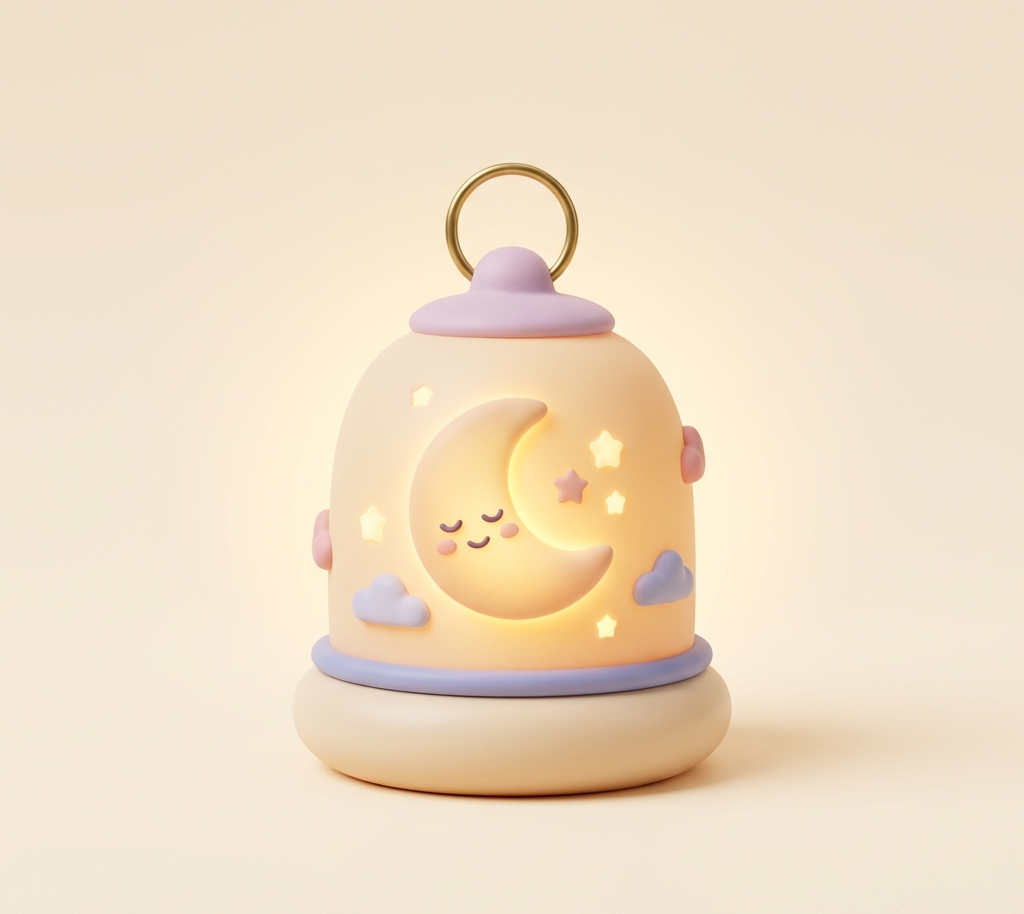
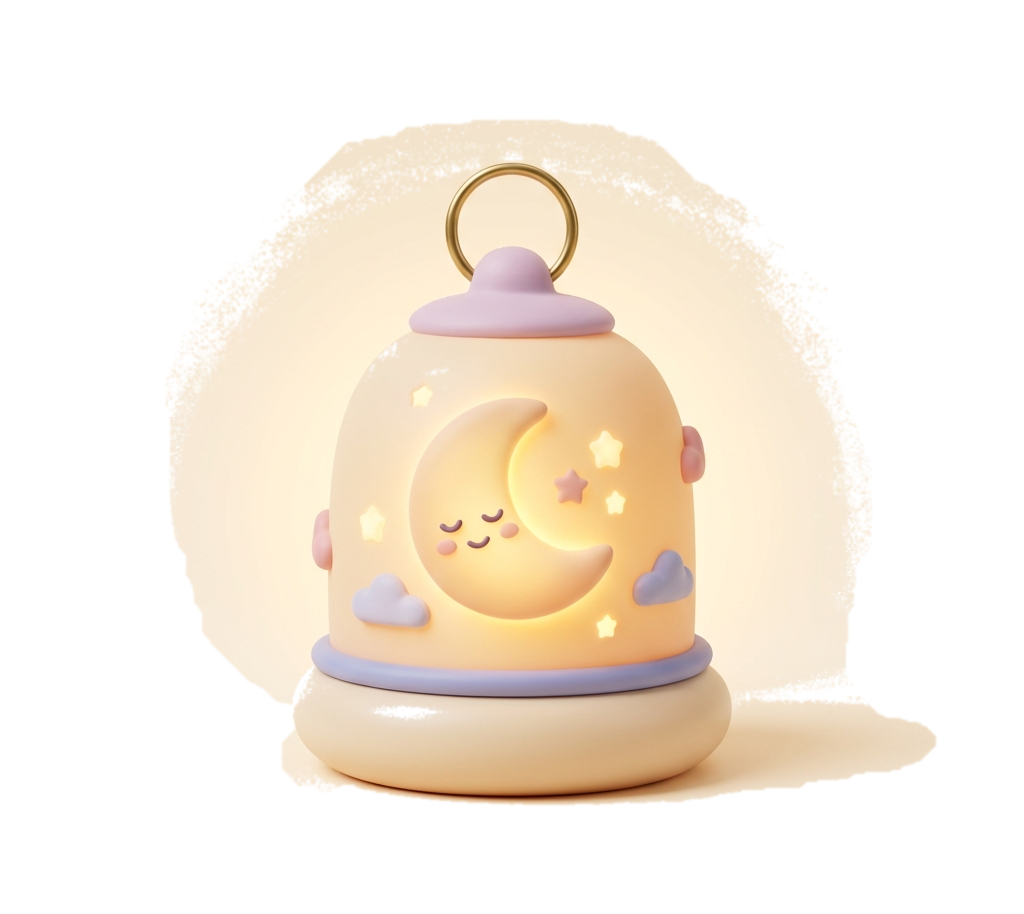
fix: remove image backgrounds across all official assets and make pupils natural glowing internal lights

diff --git a/script.js b/script.js
@@ -198,7 +198,7 @@ document.addEventListener('DOMContentLoaded', () => {
   const rightBox = document.querySelector('.right-eye-box');
 
   if (leftPupil && rightPupil && leftBox && rightBox) {
-    const maxRadius = 4.5; // maximum movement in pixels strictly within socket
+    const maxRadius = 3.8; // maximum movement in pixels strictly within socket
 
     window.addEventListener('mousemove', (e) => {
       [
@@ -213,7 +213,7 @@ document.addEventListener('DOMContentLoaded', () => {
         const deltaY = e.clientY - eyeCenterY;
         const angle = Math.atan2(deltaY, deltaX);
 
-        const distance = Math.min(maxRadius, Math.hypot(deltaX, deltaY) / 25);
+        const distance = Math.min(maxRadius, Math.hypot(deltaX, deltaY) / 30);
         const moveX = Math.cos(angle) * distance;
         const moveY = Math.sin(angle) * distance;
 

diff --git a/style.css b/style.css
@@ -611,15 +611,16 @@ body {
 }
 
 .pip-pupil {
-  width: 13px;
-  height: 13px;
+  width: 9px;
+  height: 9px;
   border-radius: 50%;
-  background: radial-gradient(circle, #ffffff 15%, #ffe680 40%, #f5c842 75%, rgba(245, 200, 66, 0.3) 100%);
+  background: radial-gradient(circle, #ffffff 10%, #ffe88a 40%, #f5c842 75%, transparent 100%);
   box-shadow: 
-    0 0 8px #f5c842,
-    0 0 16px rgba(245, 200, 66, 0.95),
-    0 0 24px rgba(245, 200, 66, 0.6);
+    0 0 6px #f5c842,
+    0 0 12px rgba(245, 200, 66, 0.85);
+  mix-blend-mode: screen;
   transition: transform 0.08s ease-out;
+  pointer-events: none;
 }
 
 /* Avatar Status Caption Capsule */
